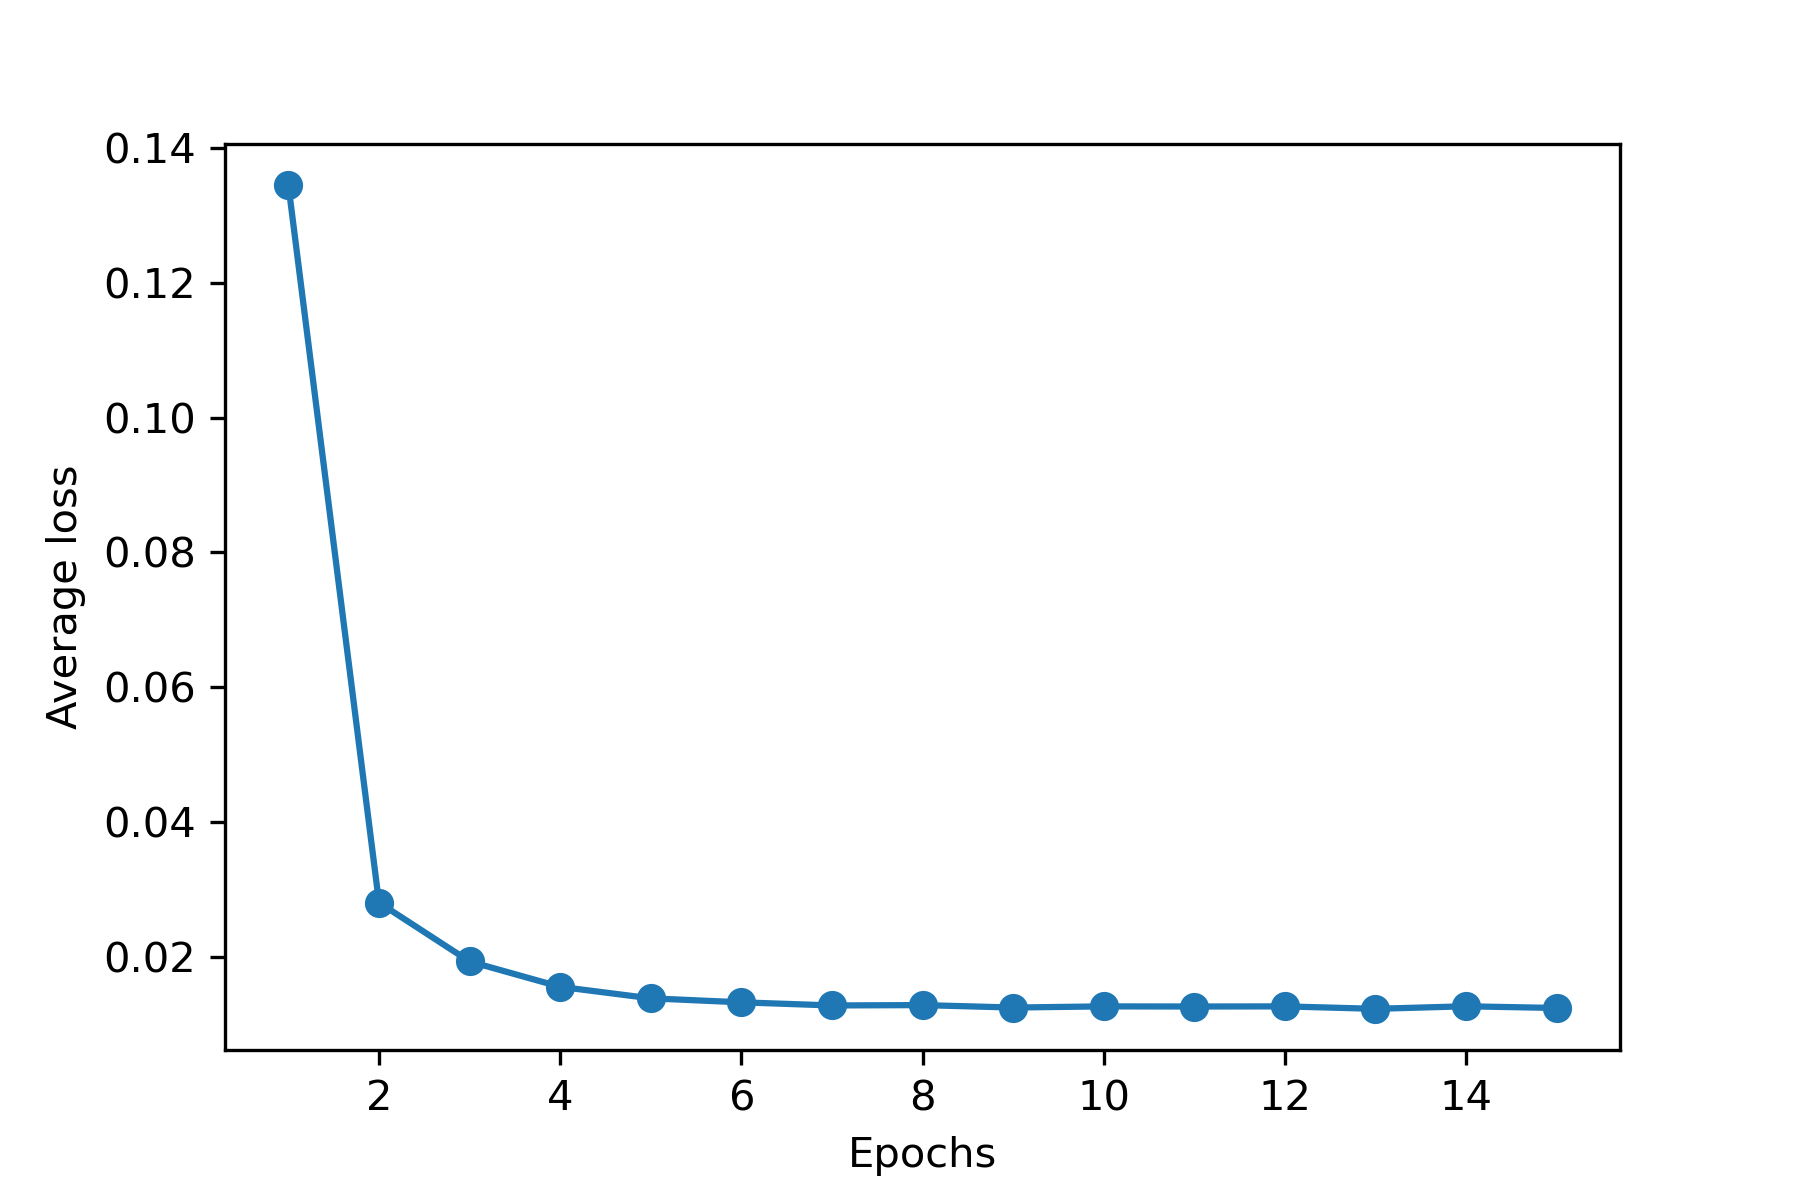
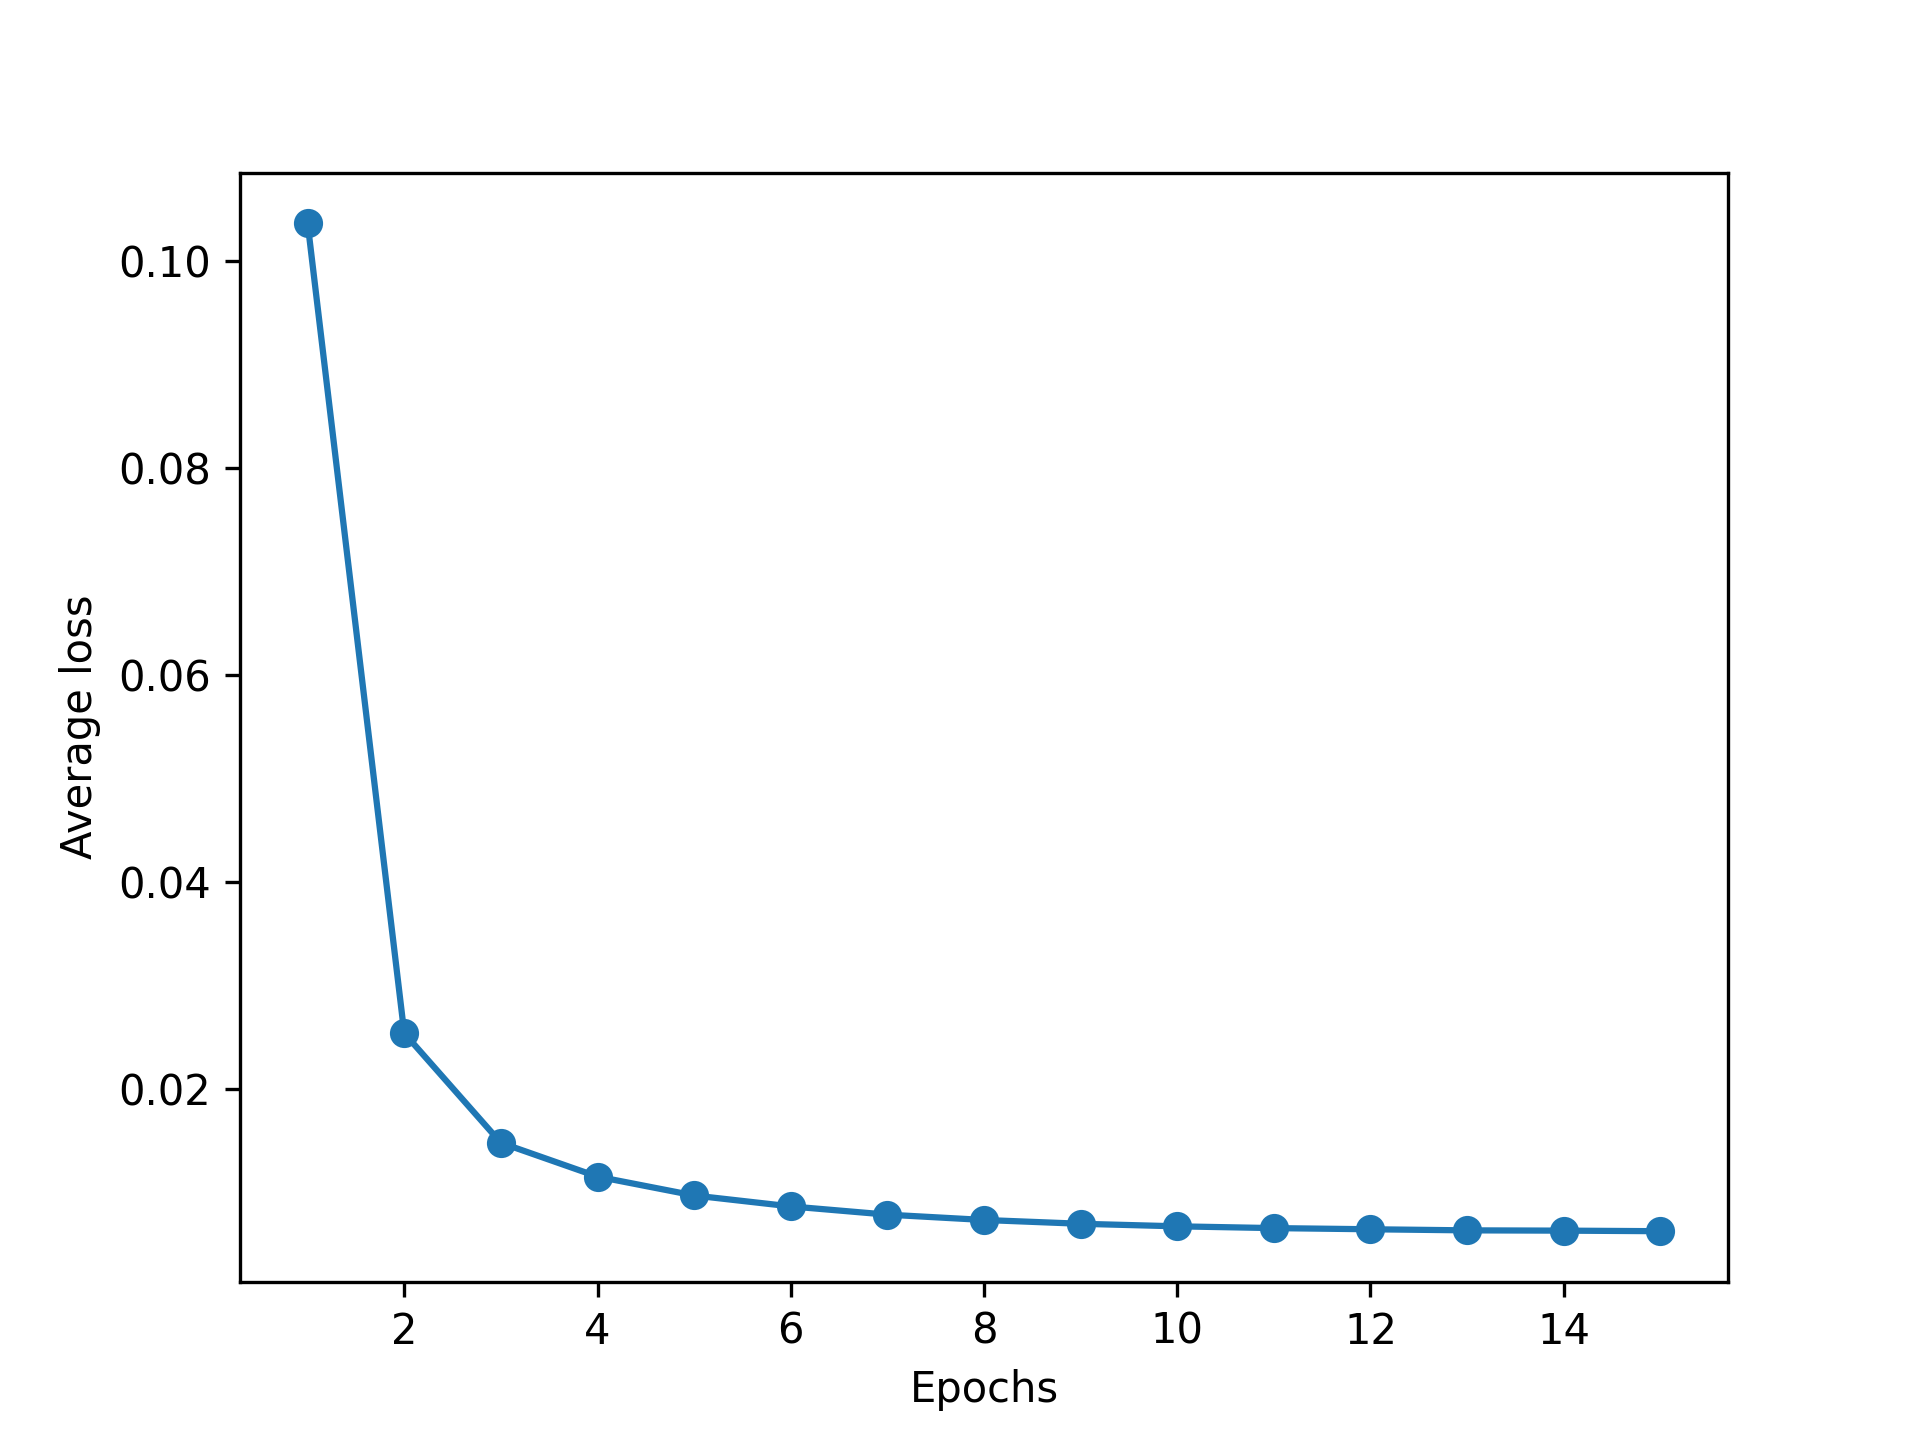
ddd

diff --git a/ch02/ch02.py b/ch02/ch02.py
@@ -9,6 +9,7 @@ import pandas as pd
 import matplotlib.pyplot as plt
 from matplotlib.colors import ListedColormap
 
+
 # # Machine Learning with PyTorch and Scikit-Learn  
 # # -- Code Examples
 